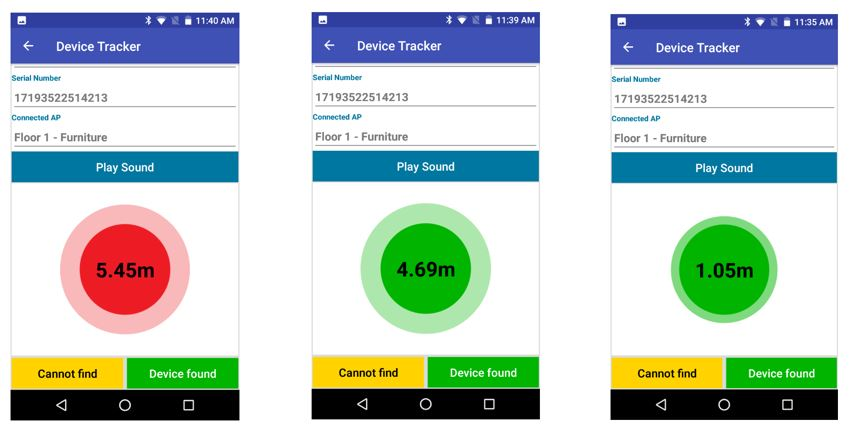
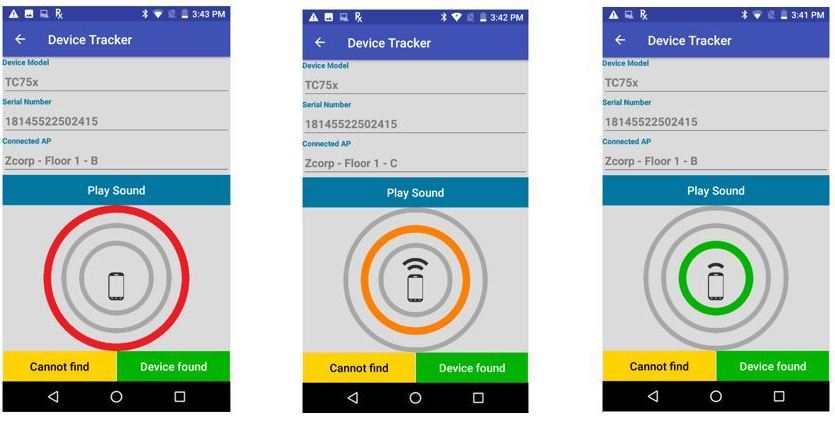
[SOLA-4005] DTRK - Update user guide with client changes / [unplanned] PPC - update setup

diff --git a/src/devicetracker/1-0/guide/mgmt/index.md b/src/devicetracker/1-0/guide/mgmt/index.md
@@ -9,12 +9,13 @@ productversion: '1.0'
 Monitoring device presence and prevention of misplaced devices is important for smooth operational productivity. This section covers the procedures to organize, track, locate, and prevent misplaced devices.
 
 ## Locating Devices
-The facility administrator monitors devices from the [admin dashboard](../admin) and can mark a device "To be found" if it is misplaced or at risk, e.g. needs to be charged due to low battery to avoid loss of connectivity. The associate selects the target device to find in the client application and walks to the Access Point (AP) area where the device is connected. BLE (Bluetooth Low Energy) based device proximity indicator and remote chirping are used to locate the device: 
+The facility administrator monitors devices from the [admin dashboard](../admin) and can mark a device "To be found" if it is misplaced or at risk, e.g. needs to be charged due to low battery. The administrator assigns an associate to search the target device by using their device to locate the general area the target device resides based on the Access Point (AP) where it last connected. Then BLE (Bluetooth Low Energy) based proximity indicator and remote chirping are used to locate the target device: 
 
-1. Animated BLE proximity indicator – Uses the associate's device as a proximity indicator to locate the misplaced device. The indicator shows the distance (in real-time) of the associate's device in relation to the target device being found. As the associate physically approaches near the target device, the distance (in feet) is displayed on the screen. A color-coded visual indicator with animation contracts and expands as the associate moves closer or further away from the target.
-2. Chirping sound – Trigger a chirping sound to play on the target device. This is particularly helpful if the device is hidden. The volume level and sound duration can be adjusted in the server [Settings](../config).
+1. **Animated BLE proximity indicator** – Shows the proximity range of the target device in relation to the searching device. The animation and color changes reflect the proximity as the user moves closer or further away from the device being searched.
+2. **Chirping sound** – Triggers a chirping sound to play on the target device. This is particularly helpful if the device is hidden. The volume level and sound duration can be adjusted in the server [Settings](../config).
 
-The BLE proximity indicator provides a rough estimation of the distance based on the signal strength of the Bluetooth signal received from the misplaced device. Within proximity of about 1 meter, distance estimation ranges between 0.5 to 2 meters. Further distances will encounter more variation - at 20 meters or more the estimate may vary between 10 to 40 meters. Multiple factors contribute to the variation, including noise on the signal measurement along with signal reflections and interference.
+The proximity depicted in the BLE indicator is based on the strength of the Bluetooth signal received from the target device. The accuracy of proximity may vary depending on multiple contributing factors, such as noise on the signal measurement, signal reflections and interference.
+<!--Within proximity of about 1 meter, distance estimation ranges between 0.5 to 2 meters. Further distances will encounter more variation - at 20 meters or more the estimate may vary between 10 to 40 meters. --> 
 
 > WiFi and Bluetooth must be enabled on both devices.
 
@@ -25,18 +26,22 @@ From the [dashboard](../admin) in the web portal, the administrator selects the 
 2. Click on the Action menu and select “Set device: ‘To be found’”. 
 3. Click “OK” on the confirmation message. The device status changes from "Active" to "To be found".
 
-The next time the target device reports to the server, it identifies it is marked "To be found". The length of time this takes is based on both the [Reporting Frequency](../config/#applicationconfiguration) and the elapsed time since the last report was received (seen in the **Updated** column on the [admin dashboard](../admin)) <sup>[1]</sup>. The administrator can then notify the associate to find the device using the Device Tracker client. The process follows: 
+The next time the target device reports to the server, it identifies it is marked "To be found". The length of time this takes is based on both the [Reporting Frequency](../config/#applicationconfiguration) and the elapsed time since the last report was received (seen in the **Updated** column on the [admin dashboard](../admin)) <sup>[1]</sup>. The administrator assigns an associate to find the device using the Device Tracker client with the following procedure: 
 
-1. <font color="blue">[Associate]</font> **Begin the device search in the area of the Access Point based on the AP friendly name.** Open Device Tracker client. In the list of "Devices to be found", tap on the target device to find. The **Device Details** screen appears providing information on the device including “Last Connected AP” which identifies the AP zone where the device is located. Walk to the AP zone and tap **Go** to begin the device search. <br>
+1. **Begin the device search in the area of the Access Point based on the AP friendly name.** <br>
+<font color="blue">[Associate]</font> Open Device Tracker client. In the list of "Devices to be found", tap on the target device to find. The **Device Details** screen appears providing information on the device including “Last Connected AP” which identifies the AP zone where the device is located. Walk to the AP zone and tap **Go** to begin the device search. <br>
 <font color="orange">[Admin]</font> On the admin dashboard, the device changes state from "To be Found" to "Being Found". 
-2. <font color="blue">[Associate]</font> **Perform device search.** Once in the AP zone, walk towards a direction and stop every 10 to 15 meters, pausing for about 30 seconds. The BLE proximity meter shows the approximate distance (in meters) between the device conducting the search and the misplaced device. The animation and color changes reflect the proximity as the user moves closer (green) or further away (red) from the device being searched. Repeat this step and change direction when necessary to move closer to the device.
+2. **Perform device search.** <br>
+<font color="blue">[Associate]</font> Once in the AP zone, walk towards a direction and stop every so often<!-- 10 to 15 meters -->, pausing for about 30 seconds. The BLE indicator shows the proximity between the device conducting the search and the target device. As the associate physically approaches near the target device, the color-coded visual indicator contracts and the circles change in color from red to orange to green. As the associate moves further away from the target device, the visual indicator expands and the color changes from green to orange then red. Repeat this step and change direction when necessary to move closer to the device.
 
-  _For optimal results, Zebra recommends to hold the device used for searching in the same position throughout the search activity. The device screen should be placed facing the user with no obstruction in the rear of the device. Changing device orientation during the search may negatively interfere with proximity perception. Moving at a slow pace during the search and standing still at every 10 to 15 meters stabilizes the signals received, improving proximity measurements._
+  _For optimal results, Zebra recommends to hold the device used for searching in the same position throughout the search activity. The device screen should be placed facing the user with no obstruction in the rear of the device. Changing device orientation during the search may negatively interfere with proximity perception. Moving at a slow pace during the search and standing still <!--at every 10 to 15 meters-->every so often stabilizes the signals received, improving proximity measurements._
 
   ![img](finding_device.jpg)
   _Figure 1. Device Tracker client screens while locating a device_
-3. <font color="blue">[Associate]</font> **Device detection by sound.** Tap “Play Sound” to play an audio sound on the misplaced device, further isolating the device location. Walk towards the sound to locate the device. This is particularly helpful when in the orange (near) and green (immediate) zones. 
-4. <font color="blue">[Associate]</font> **Device located.** Once found, tap **Device found** at the bottom of the screen. Some devices may require the user to scroll down the screen for the button to be visible. Tap “Yes” to the confirmation message to designate the device as found. <br>
+3. **Detection by sound.** <br>
+<font color="blue">[Associate]</font> Tap “Play Sound” to play an audio sound on the misplaced device, further isolating the device location. Walk towards the sound to locate the device. This is particularly helpful when in the orange (near) and green (immediate) zones. 
+4. **Device located.** <br>
+<font color="blue">[Associate]</font> Once found, tap **Device found** at the bottom of the screen. Some devices may require the user to scroll down the screen for the button to be visible. Tap “Yes” to the confirmation message to designate the device as found. <br>
 <font color="orange">[Admin]</font> On the dashboard, the device status changes from “Being found” to “Device has been found”. The admin can take action to set the device back to the “Active” state, placing it back into the main device pool:
    A. Select the device in the dashboard.
    B. In the Action menu, select "Set device to: Active".

diff --git a/src/devicetracker/1-0/guide/setup/index.md b/src/devicetracker/1-0/guide/setup/index.md
@@ -30,12 +30,12 @@ This section provides the server and device requirements. Device Tracker support
    * Google Chrome Browser version 66 and higher
    * Microsoft Internet Explorer version 11 and higher
    * Microsoft Edge for Windows 10
-   * Safari for Mac version 9 and higher
+   * Safari for Mac version 11 and higher
 
 3. Software Required (included in server installation):
    * Java runtime
    * Node.js version 6.11
-   * PostgreSQL 9.6.3-3 or higher
+   * PostgreSQL 9.6.3-3 and higher
    * Device Tracker software (server and client) 
 
 4. Network Access Requirements:
@@ -87,7 +87,7 @@ Requirements for Device Tracker client:
 See supported [Zebra devices](../about/#supporteddevices).
 
 ##Server Install & Setup
-Install Device Tracker server on the supported system that meets the specified requirements. After server installation, further network and certificate setup is required to allow communication between the server and devices via DNS and firewall. Instructions for server installation and setup:
+Install Device Tracker server on the supported system that meets the specified requirements. Download Device Tracker server from [Zebra Support and Downloads](https://www.zebra.com/us/en/support-downloads/software/productivity-apps/power-precision-console.html). After server installation, further network and certificate setup is required to allow communication between the server and devices via DNS and firewall. Instructions for server installation and setup:
 
 ###Server Installation
 1. Double-click on the .EXE to launch the installer.
@@ -104,8 +104,8 @@ _Figure 3. Installation - destination location_
    * **Domain** - domain name for server, e.g. "name.company.com"
    * **Server Certificate Path** - location of server certificate (.pfx file)
    * **Server Certificate Password** - password for server certificate
-   * **UI port** - by default, 8443
-   * **Backend Server Port** - by default, 8080
+   * **UI port** - designated UI port, can default to 8443
+   * **Backend Server Port** - designated server port, can default to 8080
 ![img](DTRK_Install_4.JPG)
 _Figure 4. Installation - server configuration_
 6. Enter in server authentication and credentials, then click Next:
@@ -142,10 +142,10 @@ G. When prompted, enter the certificate password to export "ssl_certificate.pfx"
 H. Copy the SSL certificate "ssl_certificate.pfx" with domain name “name.company.com” to a designated folder.
 <br>
 
-3. **Open Inbound/Outbound Ports on the Firewall.** The appropriate ports are required to be opened for inbound/outbound network traffic flow through the firewall for communication between the server and devices. The method to open the ports depends on the firewall software used by the network administrator. The ports are specified during the server install. By default the ports are:   
+3. **Open Inbound/Outbound Ports on the Firewall.** The appropriate ports are required to be opened for inbound/outbound network traffic flow through the firewall for communication between the server and devices. These are the UI and backend server ports specified during the server install. The method to open the ports depends on the firewall software used by the network administrator. The ports are specified during the server install. By default the ports are:   
 
-	* Inbound ports: TCP ports 8080 and 8443
-	* Outbound port: TCP port 8080
+	* Inbound ports: TCP ports 8080 and 8443 (by default)
+	* Outbound port: TCP port 8080 (by default)
 <br>
 4. **Run the Device Tracker Server Software.** Start the server services by launching the desktop shortcut icon "START_ZDVC_SERVICE". Open the supported browser. Enter the default server URL: **https://name.company.com:8443/zdvc**
 
@@ -266,7 +266,7 @@ H. A window opens with the generated StageNow barcode in .pdf format. When ready
 7. Open the StageNow client on the device.
 8. Scan the barcode generated to configure the Device Tracker client with the settings specified. <br>
 
-**Steps to create StageNow profile to start the Device Tracker service remotely:**
+**Steps to create StageNow profile to start Device Tracker service remotely:**
 1. Open [StageNow](https://www.zebra.com/us/en/support-downloads/software/utilities/stagenow.html) on a PC. 
 2. In the StageNow home screen, click “Create New Profile” from the left menu.  <br>
 3. Ensure the proper MX version is selected at the top drop-down selector. Select “XpertMode" from the table. Click Create.<br>
@@ -274,14 +274,14 @@ H. A window opens with the generated StageNow barcode in .pdf format. When ready
 _Figure 21. Profile wizard_ <br>
 4. Enter the profile name. Click Start.<br>
 5. Scroll down and click the plus (+) sign next to “Intent”. This adds to the Config tab on the right side. Click Add.<br>
-![img](SN_AddIntentSetting.JPG)
+![img](SN_AddIntentSetting.jpg)
 _Figure 22. Add Setting_ <br>
 6. Enter the following information:
    * Action: select "StartService"
    * Android Action Name: enter "com.zebra.devicetracker.csp.DTCspService"
    * Package Name: enter "com.zebra.devicetracker"
 Click Continue.
-![img](SN_IntentConfig.JPG)
+![img](SN_IntentConfig.jpg)
 _Figure 23. Configure Setting_ <br>
 7. Click “Complete Profile." <br>
 8. In the Publish section, select the desired barcode type. Click Test. 

diff --git a/src/ppc/1-0/guide/setup/index.md b/src/ppc/1-0/guide/setup/index.md
@@ -12,8 +12,74 @@ See [System Requirements](../about/#systemrequirements).
 
 > Important: An SSL Certificate is required from a third party certificate authority (CA), such as Verisign or Thawte. Any self-signed certificate or one issued by a non-third party CA will not work. The .pfx certificate must contain the complete certificate chain, including intermediate certificates.
 
+##System Requirements
+This section provides the server and device requirements.
+
+###Server Requirements
+1. Windows Operating Systems supported:
+   * Windows® 2012 server, 64-bit processor
+   * Windows® 2016, 64-bit processor
+
+2. Browsers supported (connect over https):  
+   * Chrome Browser version 63 or higher
+   * Internet Explorer 11
+   * Microsoft Edge for Windows 10
+   * Safari for Mac version 9 or higher
+
+3. Software Required (included in server installation):
+   * Java runtime
+   * Node.js version 6.11
+   * PostgreSQL 9.6.3-3 or higher
+   * PowerPrecision Console software (server and client) 
+
+4. Network Access Requirements:
+   * If required, open incoming and outgoing ports for communication between server and mobile devices through the server firewall. The default ports used are: 
+        * Data Port 8080 for PPC client to register and upload battery data 
+        * Web Portal Port 8443 for accessing PPC web portal  
+   * If required, perform DNS setup to add server IP address to the DNS server. 
+
+5. Hardware Requirements: 
+   * Minimum CPU cores: 8  
+   * Minimum memory (RAM): 4 GB  
+   * Minimum available hard drive space: 300 GB 
+
+  Recommended hardware requirements based on number of devices and batteries:
+   <table class="facelift" align="center" style="width:70%" border="1" padding="5px">
+   <tr bgcolor="#dce8ef">
+      <th>Number of Devices</th>
+      <th>Number of Batteries</th>
+      <th style="text-align:center">RAM</th>
+      <th style="text-align:center">CPU Cores</th>
+      <th style="text-align:center">Hard Drive Space</th>
+    </tr>
+    <tr>
+      <td>Up to 1,000 devices</td>
+      <td style="text-align:center">Up to 2,000 batteries</td>
+      <td style="text-align:center">4 GB</td>
+      <td style="text-align:center">8 cores</td>
+      <td style="text-align:center">300 GB</td>
+    </tr>
+    <tr>
+      <td>1,000 to 5,000 devices</td>
+      <td style="text-align:center">2,000 to 10,000 batteries</td>
+      <td style="text-align:center">8 GB</td>
+      <td style="text-align:center">8 cores</td>
+      <td style="text-align:center">600 GB</td>
+    </tr>
+    <tr>
+      <td>Up to 10,000 devices</td>
+      <td style="text-align:center">Up to 20,000 batteries</td>
+      <td style="text-align:center">16 GB</td>
+      <td style="text-align:center">16 cores</td>
+      <td style="text-align:center">750 GB</td>
+    </tr>
+   </table>
+
+###Device Requirements
+See [Device Requirements](../about/#devicerequirements).
+
 ##Server Install & Setup
-After server installation, further network and certificate setup is required to allow communication between the server and devices via DNS and firewall. Instructions for server installation and setup:
+Download PPC Server from [Zebra Support and Downloads](https://www.zebra.com/us/en/support-downloads/software/productivity-apps/power-precision-console.html). After server installation, further network and certificate setup is required to allow communication between the server and devices via DNS and firewall. Instructions for server installation and setup:
 
 1. **Server Installation.** Double-click on the .EXE and follow the steps to complete installation.
 
@@ -105,7 +171,7 @@ Install PPC client on the supported Zebra devices to register the device, upload
 
 ###Installation
 Steps for client installation:
-1. Download PPCClient.zip from [Zebra Support and Downloads](https://www.zebra.com/us/en/support-downloads/software/productivity-apps/power-precision-console.html). Extract the files and folders.
+1. Download PPC Client from [Zebra Support and Downloads](https://www.zebra.com/us/en/support-downloads/software/productivity-apps/power-precision-console.html). Extract the files and folders.
 2. Install PowerPrecisionConsole.apk. 
    * For Android Marshmallow and Nougat devices, install the .APK located in folder PPCClient\Client\M_N.
    * For Android Oreo devices, install the .APK located in folder PPCClient\Client\O.

diff --git a/src/ppc/1-0/guide/about/index.md b/src/ppc/1-0/guide/about/index.md
@@ -31,70 +31,10 @@ PowerPrecision Console main features:
 * Report generation to export data collected 
 * Capability for device staging with the use of an EMM such as Zebra's [StageNow](/stagenow/latest/about) with [Battery Manager CSP](/mx/batterymgr).
 
-##System Requirements
-This section provides the server and device requirements.
+##Device Requirements
+This section provides the device requirements.
 
-###Server Requirements
-1. Windows Operating Systems supported:
-   * Windows® 2012 server, 64-bit processor
-   * Windows® 2016, 64-bit processor
-
-2. Browsers supported (connect over https):  
-   * Chrome Browser version 63 or higher
-   * Internet Explorer 11
-   * Microsoft Edge for Windows 10
-   * Safari for Mac version 9 or higher
-
-3. Software Required (included in server installation):
-   * Java runtime
-   * Node.js version 6.11
-   * PostgreSQL 9.6.3-3 or higher
-   * PowerPrecision Console software (server and client) 
-
-4. Network Access Requirements:
-   * If required, open incoming and outgoing ports for communication between server and mobile devices through the server firewall. The default ports used are: 
-        * Data Port 8080 for PPC client to register and upload battery data 
-        * Web Portal Port 8443 for accessing PPC web portal  
-   * If required, perform DNS setup to add server IP address to the DNS server. 
-
-5. Hardware Requirements: 
-   * Minimum CPU cores: 8  
-   * Minimum memory (RAM): 4 GB  
-   * Minimum available hard drive space: 300 GB 
-
-  Recommended hardware requirements based on number of devices and batteries:
-   <table class="facelift" align="center" style="width:70%" border="1" padding="5px">
-   <tr bgcolor="#dce8ef">
-      <th>Number of Devices</th>
-      <th>Number of Batteries</th>
-      <th style="text-align:center">RAM</th>
-      <th style="text-align:center">CPU Cores</th>
-      <th style="text-align:center">Hard Drive Space</th>
-    </tr>
-    <tr>
-      <td>Up to 1,000 devices</td>
-      <td style="text-align:center">Up to 2,000 batteries</td>
-      <td style="text-align:center">4 GB</td>
-      <td style="text-align:center">8 cores</td>
-      <td style="text-align:center">300 GB</td>
-    </tr>
-    <tr>
-      <td>1,000 to 5,000 devices</td>
-      <td style="text-align:center">2,000 to 10,000 batteries</td>
-      <td style="text-align:center">8 GB</td>
-      <td style="text-align:center">8 cores</td>
-      <td style="text-align:center">600 GB</td>
-    </tr>
-    <tr>
-      <td>Up to 10,000 devices</td>
-      <td style="text-align:center">Up to 20,000 batteries</td>
-      <td style="text-align:center">16 GB</td>
-      <td style="text-align:center">16 cores</td>
-      <td style="text-align:center">750 GB</td>
-    </tr>
-   </table>
-
-###Device Requirements
+See [Install & Setup](../setup) for System Requirements.
 
 1. Supported Devices:
   <table class="facelift" align="center" style="width:70%" border="1" padding="5px">

diff --git a/src/devicetracker/1-0/guide/about/index.md b/src/devicetracker/1-0/guide/about/index.md
@@ -7,7 +7,7 @@ productversion: '1.0'
 
 ## Overview
 
-Device Tracker is a centralized locationing solution that tracks and finds misplaced devices within a facility. As part of Zebra’s Mobility DNA Visibility Console, it leverages existing WiFi network infrastructure to locate devices, preventing device inventory shrinkage. When locating a device, Device Tracker identifies the area where the device is located based on the Access Point (AP) the device is connected to within the facility. The Device Tracker client uses BLE (Bluetooth Low Energy) beacons transmitted from the misplaced device for proximity sensing based on its relative position to the device conducting the search. Audio sounds can be played on the device to aid in locating it if not easily visible. Device Tracker centralized management system continuously monitors device presence, connection state, and battery health to ensure visibility of devices prior to reaching a disconnected or loss of battery state.
+Device Tracker is a centralized solution that tracks and finds misplaced devices within a facility. As part of Zebra’s Mobility DNA Visibility Console, it leverages existing WiFi network infrastructure to locate devices, preventing device inventory shrinkage. When locating a device, Device Tracker identifies the general area where the device is located based on the Access Point (AP) the device is connected to within the facility. The Device Tracker client uses BLE (Bluetooth Low Energy) beacons transmitted from the misplaced device for proximity sensing based on its relative position to the device conducting the search. Audio sounds can be played on the misplaced device to aid in locating it if not easily visible. Device Tracker centralized management system continuously monitors device presence, connection state, and battery health to ensure visibility of devices prior to reaching a disconnected or loss of battery state.
 
 ##Main Features
 Device Tracker main features:
